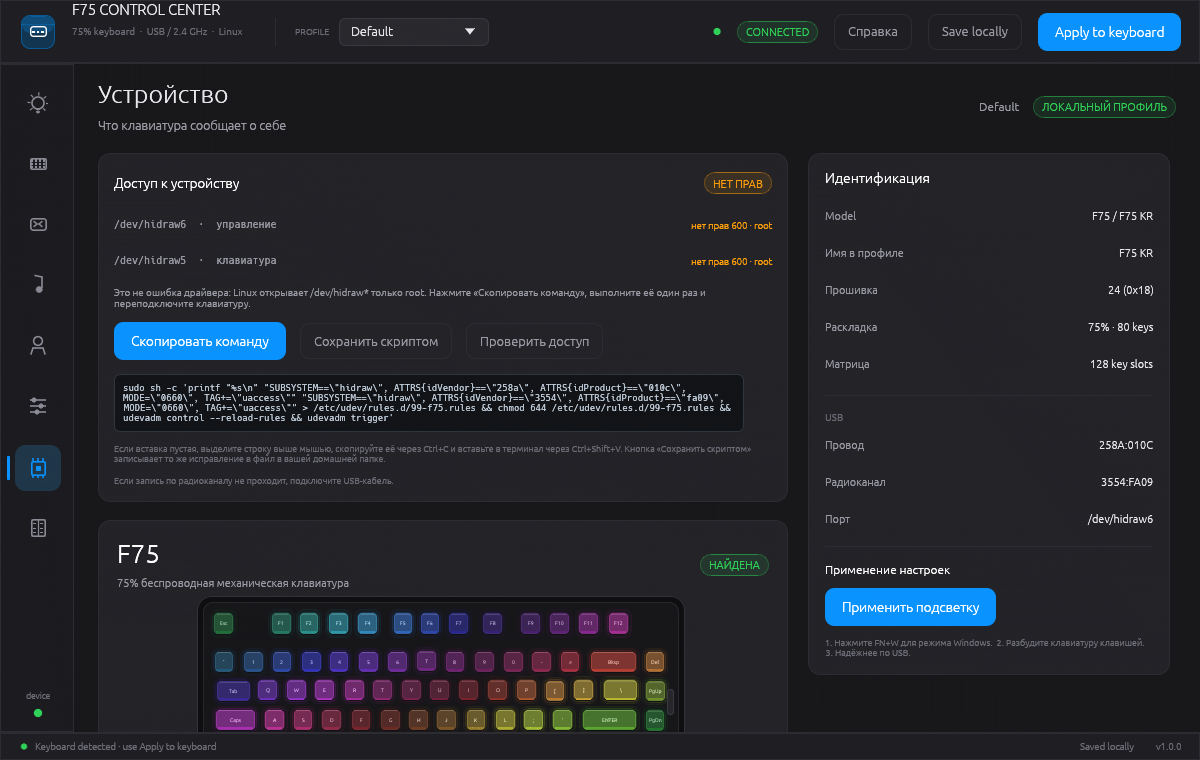
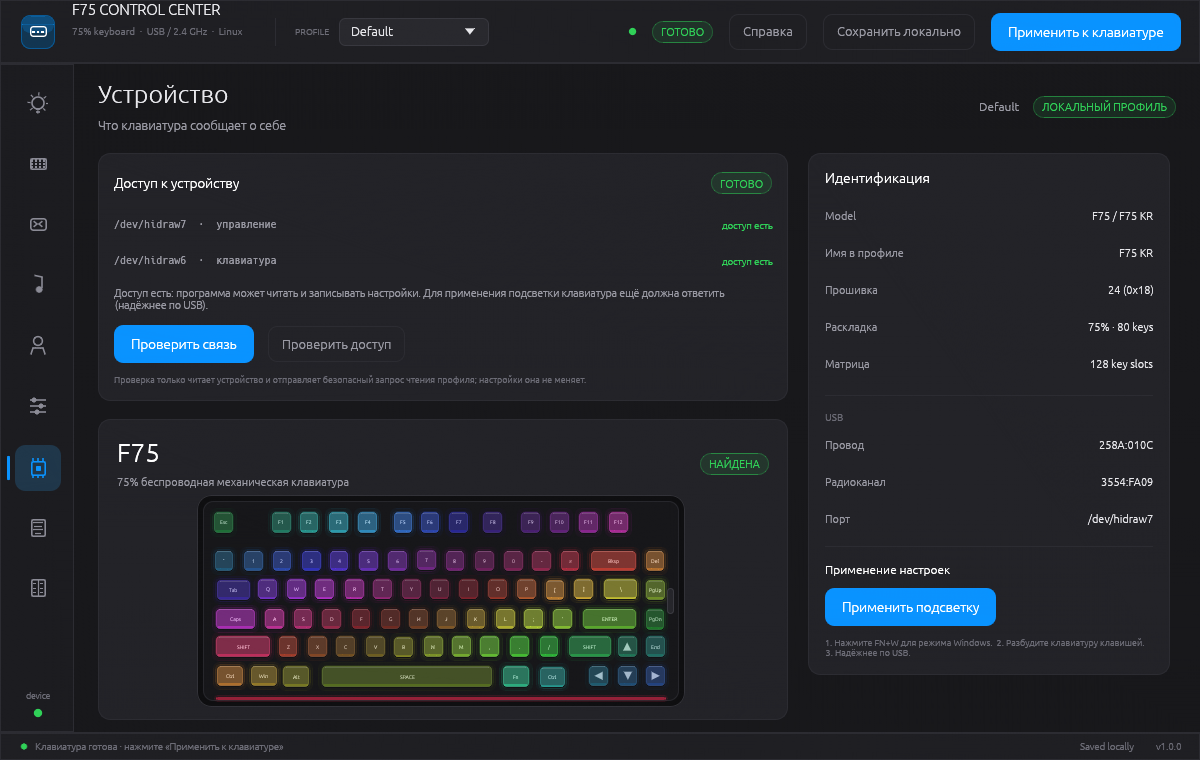
fix: match app version to Cargo, correct LED label, silence warnings

diff --git a/src/pages.rs b/src/pages.rs
@@ -5,7 +5,7 @@ use crate::model::*;
 use crate::theme::*;
 use eframe::egui::{
     self, pos2, vec2, Align, Color32, CornerRadius, FontFamily, FontId, Frame, Layout, Margin,
-    RichText, ScrollArea, Sense, Stroke, StrokeKind, TextEdit, Ui, Vec2,
+    RichText, ScrollArea, Sense, Stroke, StrokeKind, TextEdit, Ui,
 };
 use std::sync::mpsc::{Receiver, TryRecvError};
 
@@ -367,7 +367,7 @@ pub fn lighting(ui: &mut Ui, s: &mut AppState, v: &mut UiState, time: f32) {
                 ui.horizontal(|ui| {
                     ui.label(RichText::new(if s.lighting.paint { t(s, "Paint mode: click a key", "Режим кисти: нажмите клавишу") } else { t(s, "Click a key to inspect it", "Нажмите клавишу для выбора") }).size(11.0).color(DIM));
                     ui.with_layout(Layout::right_to_left(Align::Center), |ui| {
-                        ui.label(RichText::new(format!("{} keys · {} LED slots · FN layer", KEY_COUNT, MATRIX_LEN)).size(10.5).color(DIM));
+                        ui.label(RichText::new(format!("{} keys · {} LEDs · FN layer", KEY_COUNT, LED_COUNT)).size(10.5).color(DIM));
                     });
                 });
             });
@@ -1056,7 +1056,7 @@ pub fn macros_page(ui: &mut Ui, s: &mut AppState, v: &mut UiState, time: f32) {
                             }
                             ui.painter().text(pos2(x, rect.center().y), egui::Align2::LEFT_CENTER, format!("+{} ms", step.delay_ms), FontId::new(9.5, FontFamily::Proportional), DIM);
                             let del = egui::Rect::from_center_size(pos2(rect.right() - 16.0, rect.center().y), vec2(20.0, 20.0));
-                            let dr = ui.interact(del, ui.id().with(("del_step", idx, i)), Sense::click());
+                            let dr = ui.interact(del, ui.scope_id().with(("del_step", idx, i)), Sense::click());
                             ui.painter().text(del.center(), egui::Align2::CENTER_CENTER, "×", FontId::new(14.0, FontFamily::Proportional), if dr.hovered() { RED } else { DIM });
                             if dr.clicked() {
                                 delete = Some(i);
@@ -2610,7 +2610,7 @@ pub fn file_dialog(ctx: &egui::Context, s: &mut AppState, v: &mut UiState, time:
                     format!("Export failed: {e}")
                 }
             };
-            toast(v, msg, time as f64);
+            toast(v, msg, time);
         } else {
             let msg = match import_profile(s, &v.import_name) {
                 Ok(name) => {
@@ -2622,7 +2622,7 @@ pub fn file_dialog(ctx: &egui::Context, s: &mut AppState, v: &mut UiState, time:
                     format!("Import failed: {e}")
                 }
             };
-            toast(v, msg, time as f64);
+            toast(v, msg, time);
         }
         v.file_dialog = None;
     } else if !open {

diff --git a/src/theme.rs b/src/theme.rs
@@ -87,7 +87,7 @@ pub fn heading(ui: &mut Ui, title: &str, subtitle: &str) {
                 ui.label(RichText::new(subtitle).size(13.0).color(MUTED));
             }
         });
-        ui.with_layout(egui::Layout::right_to_left(Align::Center), |ui| {});
+        ui.with_layout(egui::Layout::right_to_left(Align::Center), |_ui| {});
     });
 }
 
@@ -587,9 +587,7 @@ pub fn underline_tab(ui: &mut Ui, selected: bool, text: &str) -> Response {
         egui::Align2::CENTER_CENTER,
         text,
         FontId::new(13.0, FontFamily::Proportional),
-        if selected {
-            TEXT
-        } else if resp.hovered() {
+        if selected || resp.hovered() {
             TEXT
         } else {
             MUTED

diff --git a/src/device.rs b/src/device.rs
@@ -15,7 +15,7 @@ use std::thread;
 use std::time::{Duration, Instant};
 
 use crate::log;
-use crate::model::{self, Effect, KeyMap, Lighting, Macro, MacroStep, StepKind};
+use crate::model::{self, Effect, KeyMap, Lighting, Macro, StepKind};
 
 const FEATURE_REPORT_ID: u8 = 6;
 const FEATURE_REPORT_LEN: usize = 1032;
@@ -1281,6 +1281,7 @@ pub fn spawn_probe() -> Receiver<JobOutcome> {
 #[cfg(test)]
 mod tests {
     use super::*;
+    use crate::model::MacroStep;
 
     #[test]
     fn config_frame_matches_vendor_layout() {

diff --git a/src/model.rs b/src/model.rs
@@ -709,16 +709,11 @@ pub fn actions_for(category: usize) -> &'static [&'static str] {
     }
 }
 
-#[derive(Clone, Copy, PartialEq, Eq, Serialize, Deserialize)]
+#[derive(Clone, Copy, PartialEq, Eq, Default, Serialize, Deserialize)]
 pub enum Lang {
+    #[default]
     En,
     Ru,
-}
-
-impl Default for Lang {
-    fn default() -> Self {
-        Lang::En
-    }
 }
 
 pub fn tr(lang: Lang, en: &'static str, ru: &'static str) -> &'static str {

diff --git a/src/keyboard.rs b/src/keyboard.rs
@@ -1,8 +1,7 @@
-use crate::model::{AppState, KeyDef, KEYS, KEY_COUNT};
+use crate::model::{AppState, KeyDef, KEYS};
 use crate::theme::*;
 use eframe::egui::{
-    self, pos2, vec2, Color32, FontFamily, FontId, Pos2, Rect, Response, Sense, Stroke, StrokeKind,
-    Ui, Vec2,
+    self, pos2, vec2, Color32, FontFamily, FontId, Pos2, Rect, Sense, Stroke, StrokeKind, Ui, Vec2,
 };
 
 pub struct KeyHit {

diff --git a/src/main.rs b/src/main.rs
@@ -493,7 +493,7 @@ impl F75App {
             return;
         }
         let fade = ((until - now) / 0.35).min(1.0) as f32;
-        egui::Area::new(Id::new("toast"))
+        egui::Area::new(Id::unique("toast"))
             .anchor(Align2::RIGHT_BOTTOM, vec2(-22.0, -42.0))
             .interactable(false)
             .show(ctx, |ui| {
